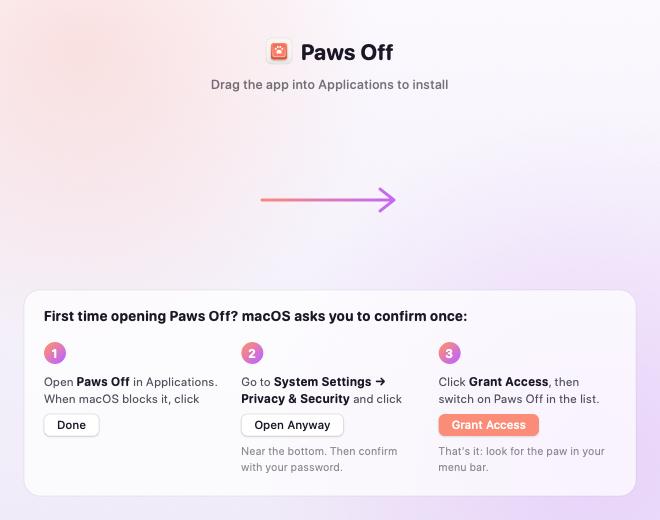
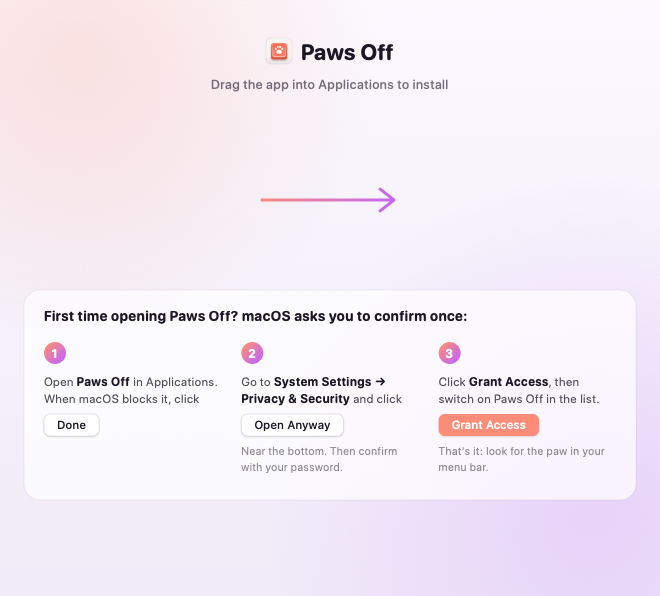
Version 2.0.8: the DMG window leaves room for Finder's path and status bars, so the guide is never cut off

diff --git a/Tools/make-installer-art.swift b/Tools/make-installer-art.swift
@@ -80,7 +80,7 @@ func saveBMP(_ rep: NSBitmapImageRep, _ name: String) {
 
 // MARK: Mac DMG window. Finder places the icons at y = 200 from the top (Tools/dmg-settings.py).
 // Two versions:
-// - dmg-background: today's, 660 x 520. Below the drag arrow, a step-by-step guide to the one-time
+// - dmg-background: today's, 660 x 596. Below the drag arrow, a step-by-step guide to the one-time
 //   "Open Anyway" prompt (the app isn't notarized yet).
 // - dmg-background-notarized: the clean 660 x 400 window with no guide, for once the app is notarized
 //   (Tools/make-dmg.sh: NOTARIZED=1).
@@ -148,8 +148,9 @@ func drawDMG(width dmgW: CGFloat, height dmgH: CGFloat, guide: Bool) {
     }
     guard guide else { return }
 
-    // The guide: a soft panel with three numbered steps, each with the button to look for.
-    let panel = NSRect(x: 24, y: 24, width: dmgW - 48, height: dmgH - 290 - 24)
+    // The guide: a soft panel with three numbered steps, each with the button to look for. The bottom
+    // 96 points stay clear: Finder may show its path bar and status bar there, over the window.
+    let panel = NSRect(x: 24, y: 96, width: dmgW - 48, height: dmgH - 290 - 96)
     let panelPath = NSBezierPath(roundedRect: panel, xRadius: 16, yRadius: 16)
     rgb(1, 1, 1, 0.72).setFill(); panelPath.fill()
     rgb(0, 0, 0, 0.06).setStroke(); panelPath.lineWidth = 1; panelPath.stroke()
@@ -188,7 +189,7 @@ func drawDMG(width dmgW: CGFloat, height dmgH: CGFloat, guide: Bool) {
 
 }
 
-for (name, width, height, guide) in [("dmg-background", 660, 520, true), ("dmg-background-notarized", 660, 400, false)] as [(String, CGFloat, CGFloat, Bool)] {
+for (name, width, height, guide) in [("dmg-background", 660, 596, true), ("dmg-background-notarized", 660, 400, false)] as [(String, CGFloat, CGFloat, Bool)] {
     for scale in [1, 2] as [CGFloat] {
         save(render(width, height, scale: scale) { drawDMG(width: width, height: height, guide: guide) }, scale == 1 ? "\(name).png" : "\(name)@2x.png")
     }

diff --git a/Tools/dmg-settings.py b/Tools/dmg-settings.py
@@ -1,6 +1,6 @@
 # dmgbuild settings for dist/PawsOff-mac.dmg (used by Tools/make-dmg.sh).
-# The window size comes from Tools/make-dmg.sh (660 x 520 with the first-launch guide, 660 x 400 for
-# the notarized version). Icon centres match the arrow drawn by Tools/make-installer-art.swift.
+# The window size comes from Tools/make-dmg.sh: the picture (660 x 596 with the first-launch guide,
+# 660 x 400 for the notarized version) plus the title bar. Icon centres match the arrow drawn by Tools/make-installer-art.swift.
 import os.path
 
 app = defines.get("app", "Paws Off.app")  # noqa: F821 (provided by dmgbuild)
@@ -16,7 +16,7 @@ icon = defines.get("volume_icon")  # noqa: F821
 background = defines.get("background")  # noqa: F821
 
 width = int(defines.get("width", "660"))  # noqa: F821
-window_rect = ((160, 120), (width, int(defines.get("height", "520"))))  # noqa: F821
+window_rect = ((160, 120), (width, int(defines.get("height", "628"))))  # noqa: F821
 default_view = "icon-view"
 show_status_bar = False
 show_tab_view = False

diff --git a/docs/DEVELOPMENT.md b/docs/DEVELOPMENT.md
@@ -79,7 +79,8 @@ Read `README.md` first, then these rules before changing anything.
   solid colour per surface, no gradients; tiny sizes are a plain coral paw). Never use SF Symbols in the icon or installer art
   (their licence forbids it). `Tools/make-icons.sh` regenerates every copy: `Assets/AppIcon.icns`,
   `windows/Assets/PawsOff.ico` (also the tray icon), `docs/images/icon.png` and the installer art.
-- **DMG first-launch guide:** while the app isn't notarized, the DMG window (660 x 520) shows three
+- **DMG first-launch guide:** while the app isn't notarized, the DMG window (660 x 596, its bottom kept clear for
+  Finder's path and status bars) shows three
   steps for the one-time "Open Anyway" prompt, each with the button to look for. Once notarized,
   build with `NOTARIZED=1 Tools/make-dmg.sh` (set it in the CI `macos` job) for the clean 660 x 400
   window (`dmg-background-notarized`), and drop the "Open Anyway" steps from the README and website.

diff --git a/docs/HISTORY.md b/docs/HISTORY.md
@@ -1,5 +1,12 @@
 # Version history
 
+## 2.0.8 — 2026-10-15
+Room to breathe.
+
+- **Mac: the installer's steps are never cut off.** If your Finder shows its path bar and status
+  bar, they used to sit on top of the last part of the guide. The window now leaves room for them,
+  so every step stays in view.
+
 ## 2.0.7 — 2026-10-15
 A friendlier first hello.
 
